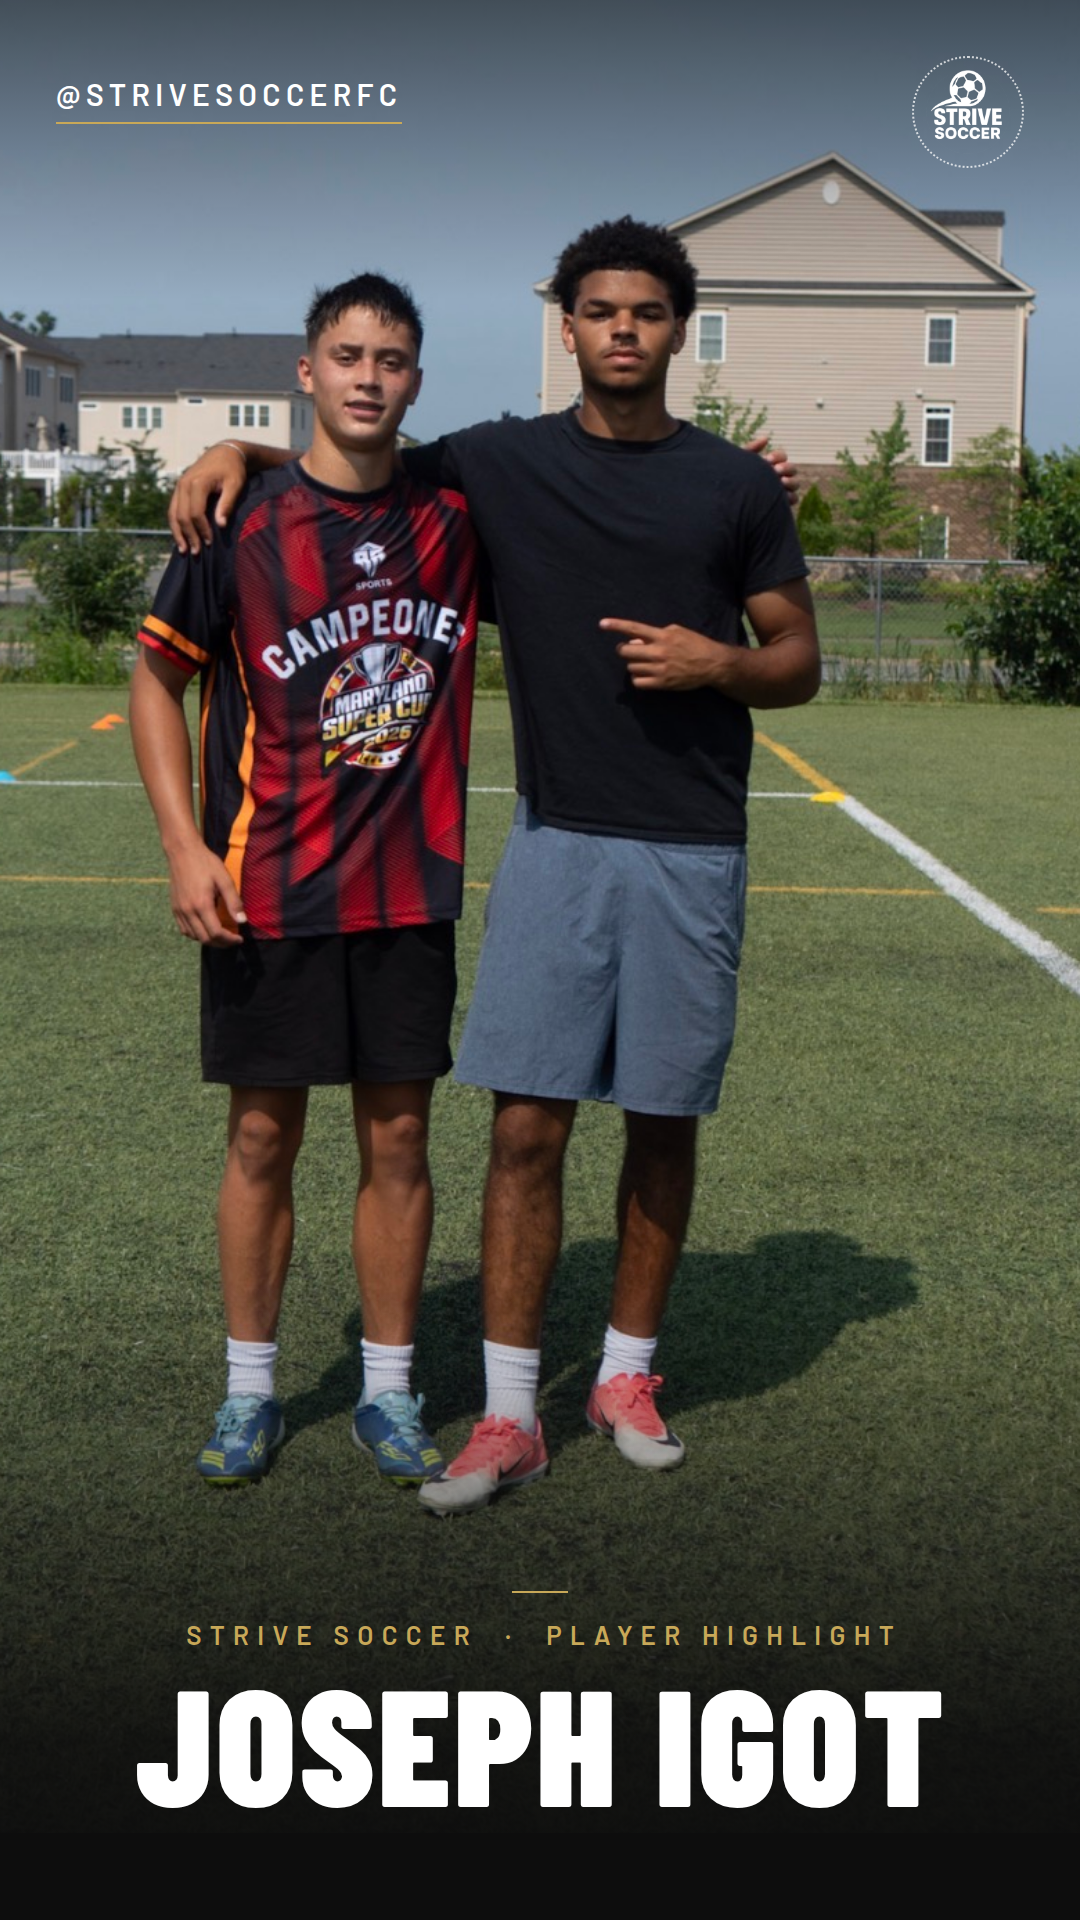
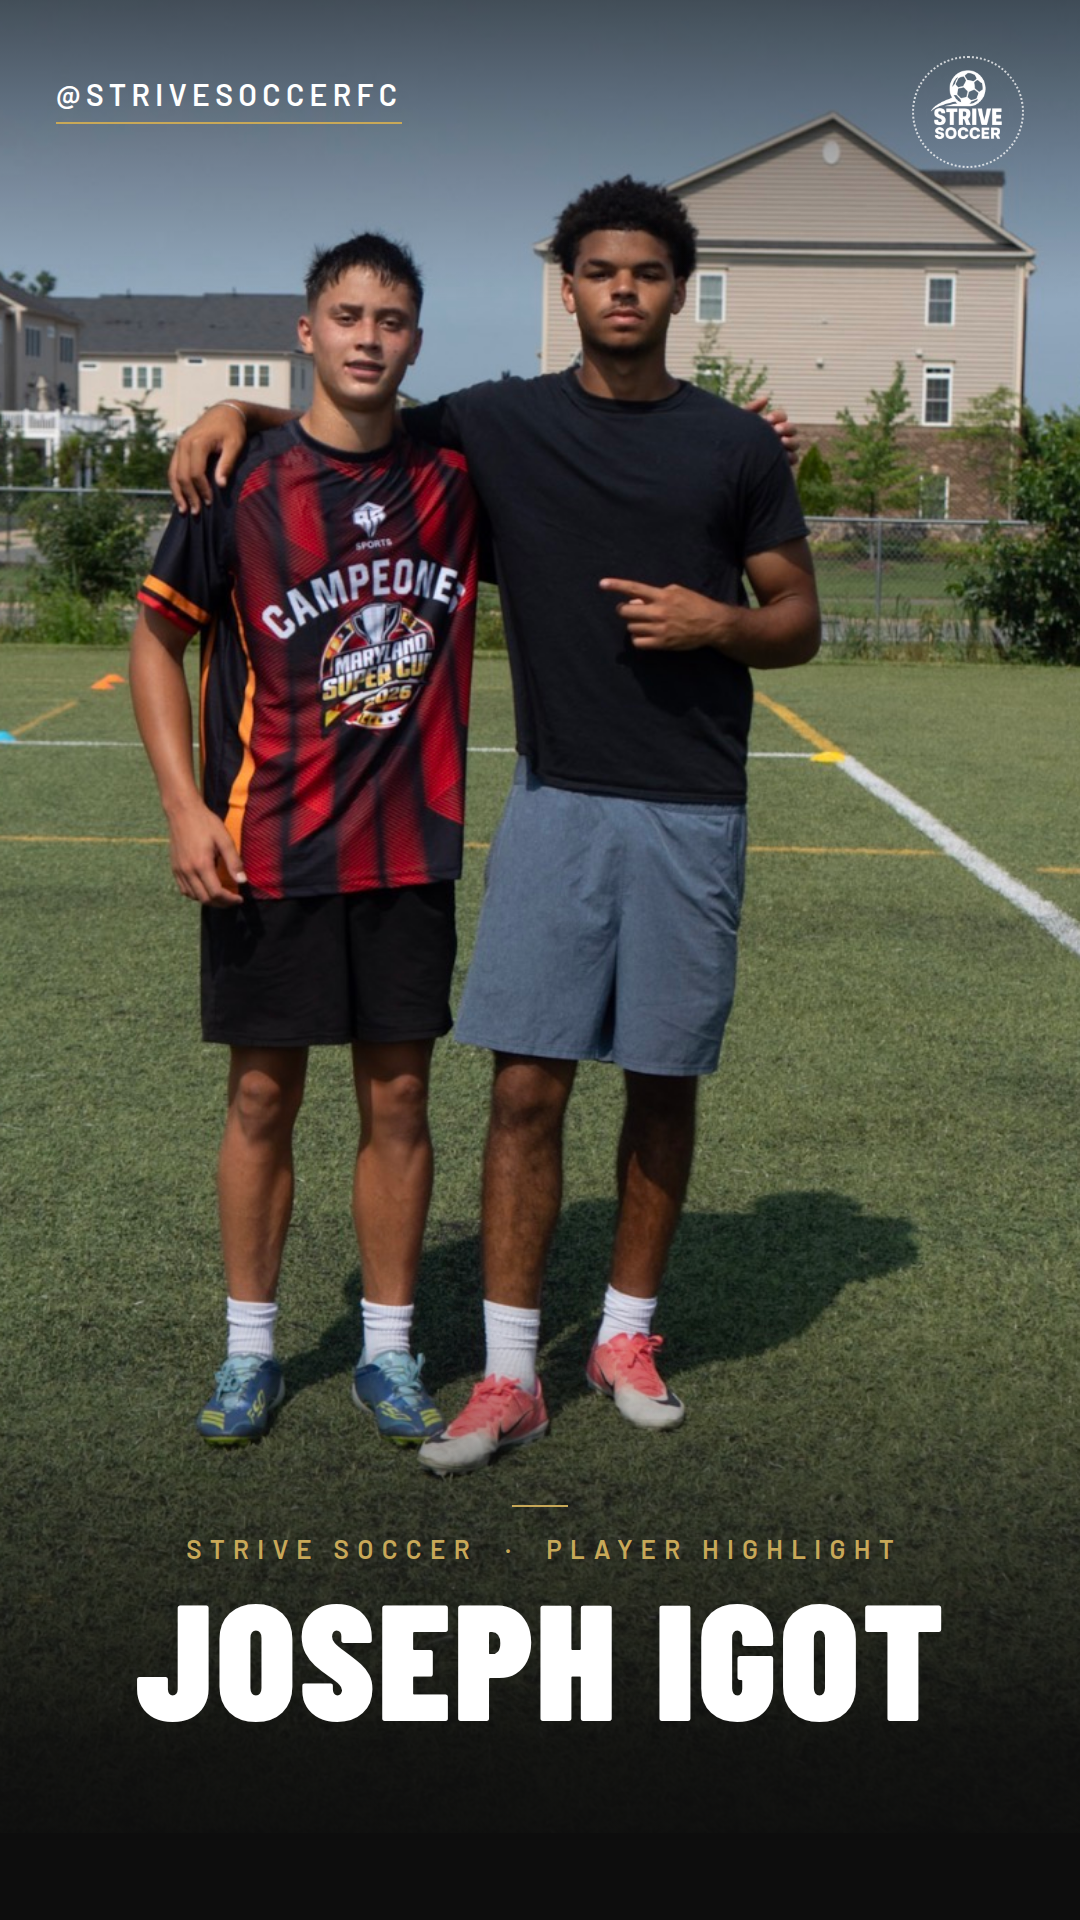
Joseph Igot cover: name block up under the boots
Claude-Session: https://claude.ai/code/session_011JsCTTjCbUkHbTuWTKQSXJ

diff --git a/marketing/highlights/joseph-igot/cover.html b/marketing/highlights/joseph-igot/cover.html
@@ -5,7 +5,7 @@
 *{margin:0;padding:0;box-sizing:border-box}
 html,body{width:1080px;height:1920px;background:#0d0d0d;overflow:hidden}
 .frame{position:relative;width:1080px;height:1920px;background:#0d0d0d;overflow:hidden}
-.frame>img{position:absolute;left:-130px;top:-360px;width:1340px;height:auto;display:block}
+.frame>img{position:absolute;left:-130px;top:-400px;width:1340px;height:auto;display:block}
 .top{position:absolute;left:0;right:0;top:0;height:300px;
   background:linear-gradient(to bottom,rgba(13,13,13,.6) 0%,rgba(13,13,13,0) 100%)}
 .shade{position:absolute;left:0;right:0;bottom:0;height:640px;
@@ -15,7 +15,7 @@ html,body{width:1080px;height:1920px;background:#0d0d0d;overflow:hidden}
 .ring{position:absolute;right:56px;top:56px;width:112px;height:112px;border-radius:50%;
   border:2px dotted rgba(255,255,255,.75);display:flex;align-items:center;justify-content:center}
 .ring img{width:84px;height:84px;object-fit:contain}
-.block{position:absolute;left:0;right:0;bottom:104px;text-align:center}
+.block{position:absolute;left:0;right:0;bottom:190px;text-align:center}
 .rule{width:56px;height:2px;background:#c8a858;margin:0 auto 26px}
 .eyebrow{font-family:'Barlow';font-weight:600;font-size:26px;letter-spacing:.32em;color:#c8a858;
   text-transform:uppercase;margin-bottom:18px;padding-left:.32em}
